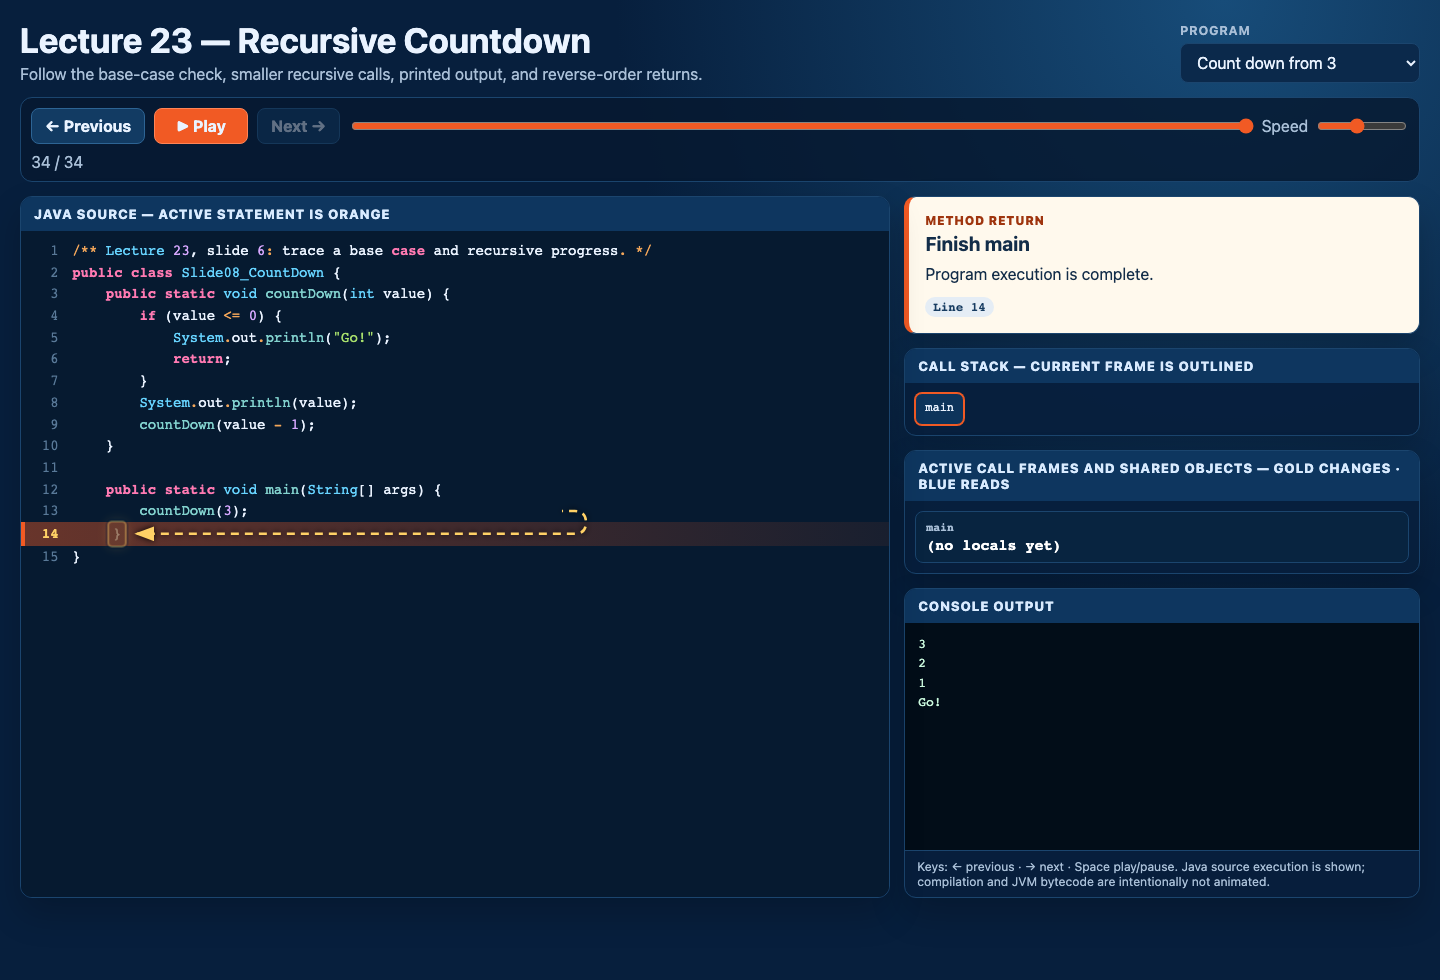
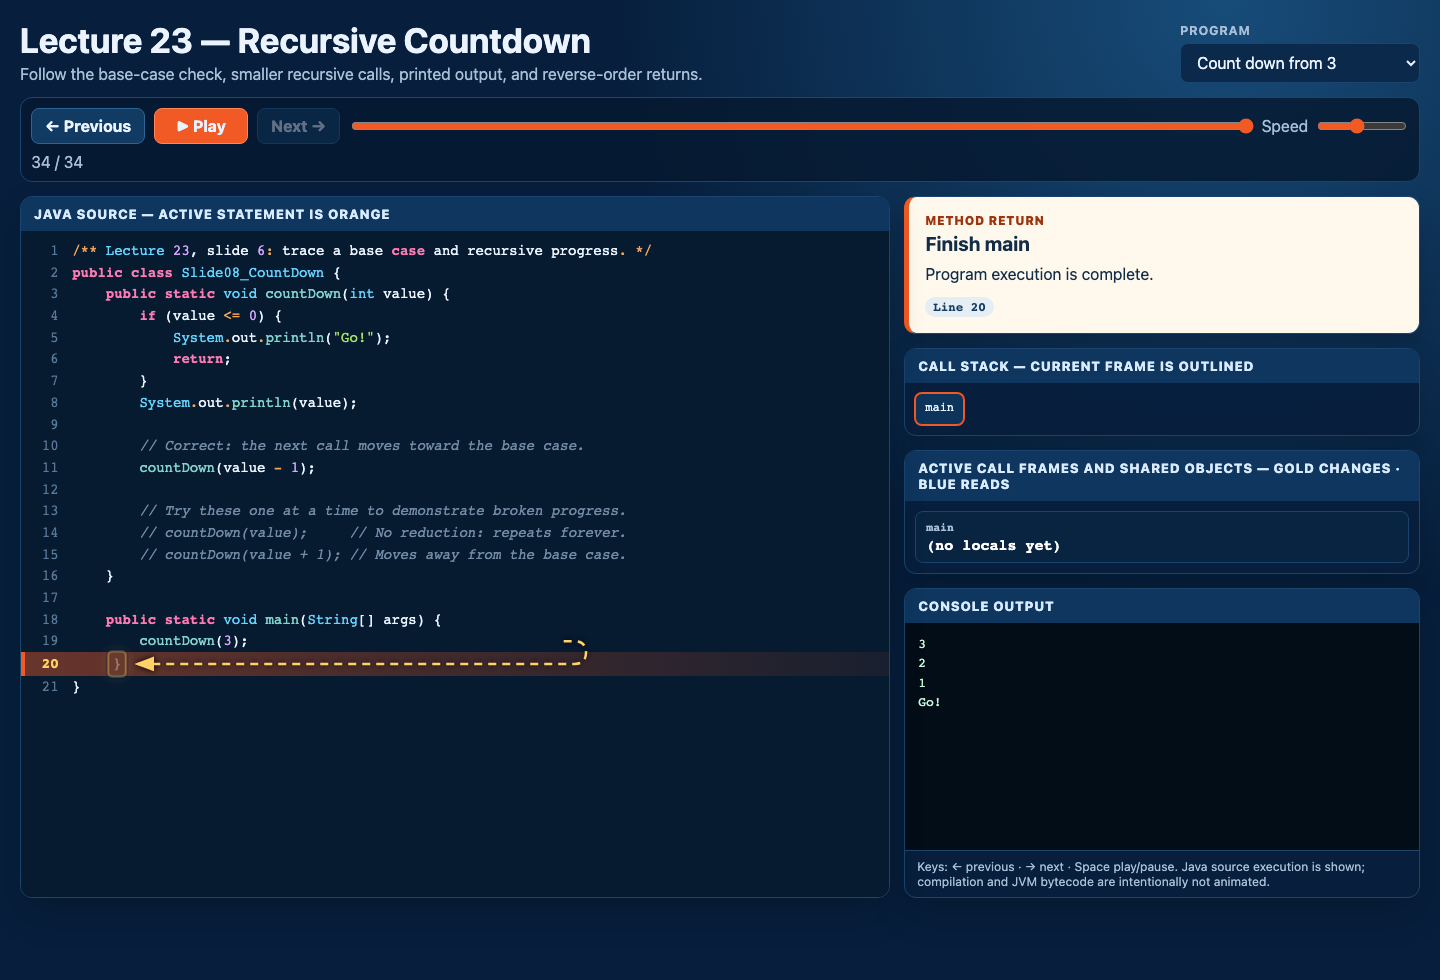
Expand countdown teaching variants and clean factorial trace text

Changed region(s): [[0.0, 0.4286, 0.5938, 0.5816], [0.0, 0.6122, 0.5938, 0.7041]]

diff --git a/lecture-23-countdown/trace-data.js b/lecture-23-countdown/trace-data.js
@@ -5,10 +5,10 @@ window.TRACE_SET = {
     {
       "id": "countdown",
       "title": "Count down from 3",
-      "source": "/** Lecture 23, slide 6: trace a base case and recursive progress. */\npublic class Slide08_CountDown {\n    public static void countDown(int value) {\n        if (value <= 0) {\n            System.out.println(\"Go!\");\n            return;\n        }\n        System.out.println(value);\n        countDown(value - 1);\n    }\n\n    public static void main(String[] args) {\n        countDown(3);\n    }\n}",
+      "source": "/** Lecture 23, slide 6: trace a base case and recursive progress. */\npublic class Slide08_CountDown {\n    public static void countDown(int value) {\n        if (value <= 0) {\n            System.out.println(\"Go!\");\n            return;\n        }\n        System.out.println(value);\n\n        // Correct: the next call moves toward the base case.\n        countDown(value - 1);\n\n        // Try these one at a time to demonstrate broken progress.\n        // countDown(value);     // No reduction: repeats forever.\n        // countDown(value + 1); // Moves away from the base case.\n    }\n\n    public static void main(String[] args) {\n        countDown(3);\n    }\n}",
       "steps": [
         {
-          "line": 12,
+          "line": 18,
           "title": "Enter main",
           "reason": "This is the main method.",
           "phase": "Method entry",
@@ -21,7 +21,7 @@ window.TRACE_SET = {
           "focus": "public static void main"
         },
         {
-          "line": 13,
+          "line": 19,
           "title": "Evaluate the initial argument",
           "reason": "The first call will receive the integer value 3.",
           "phase": "Argument evaluation",
@@ -34,7 +34,7 @@ window.TRACE_SET = {
           "focus": "3"
         },
         {
-          "line": 13,
+          "line": 19,
           "title": "Call countDown(3)",
           "reason": "Suspend main until the countdown finishes.",
           "phase": "Method call",
@@ -114,7 +114,7 @@ window.TRACE_SET = {
           "output": "3"
         },
         {
-          "line": 9,
+          "line": 11,
           "title": "Calculate the smaller argument",
           "reason": "value - 1 is 2. The current call keeps value = 3 while the child runs.",
           "phase": "Argument evaluation",
@@ -132,7 +132,7 @@ window.TRACE_SET = {
           }
         },
         {
-          "line": 9,
+          "line": 11,
           "title": "Call countDown(2)",
           "reason": "Suspend this call and enter the same method with the smaller value.",
           "phase": "Method call",
@@ -222,7 +222,7 @@ window.TRACE_SET = {
           "output": "2"
         },
         {
-          "line": 9,
+          "line": 11,
           "title": "Calculate the smaller argument",
           "reason": "value - 1 is 1. The current call keeps value = 2 while the child runs.",
           "phase": "Argument evaluation",
@@ -242,7 +242,7 @@ window.TRACE_SET = {
           }
         },
         {
-          "line": 9,
+          "line": 11,
           "title": "Call countDown(1)",
           "reason": "Suspend this call and enter the same method with the smaller value.",
           "phase": "Method call",
@@ -342,7 +342,7 @@ window.TRACE_SET = {
           "output": "1"
         },
         {
-          "line": 9,
+          "line": 11,
           "title": "Calculate the smaller argument",
           "reason": "value - 1 is 0. The current call keeps value = 1 while the child runs.",
           "phase": "Argument evaluation",
@@ -364,7 +364,7 @@ window.TRACE_SET = {
           }
         },
         {
-          "line": 9,
+          "line": 11,
           "title": "Call countDown(0)",
           "reason": "Suspend this call and enter the same method with the smaller value.",
           "phase": "Method call",
@@ -492,7 +492,7 @@ window.TRACE_SET = {
           "focus": "return"
         },
         {
-          "line": 9,
+          "line": 11,
           "title": "Resume countDown(1)",
           "reason": "countDown(0) has returned, so countDown(1) resumes after its recursive call.",
           "phase": "Return to caller",
@@ -511,7 +511,7 @@ window.TRACE_SET = {
           "focus": "countDown(value - 1)"
         },
         {
-          "line": 10,
+          "line": 16,
           "title": "Finish countDown(1)",
           "reason": "No statements remain in this void method, so the call returns to its caller.",
           "phase": "Method return",
@@ -530,7 +530,7 @@ window.TRACE_SET = {
           "focus": "}"
         },
         {
-          "line": 9,
+          "line": 11,
           "title": "Resume countDown(2)",
           "reason": "countDown(1) has returned, so countDown(2) resumes after its recursive call.",
           "phase": "Return to caller",
@@ -547,7 +547,7 @@ window.TRACE_SET = {
           "focus": "countDown(value - 1)"
         },
         {
-          "line": 10,
+          "line": 16,
           "title": "Finish countDown(2)",
           "reason": "No statements remain in this void method, so the call returns to its caller.",
           "phase": "Method return",
@@ -564,7 +564,7 @@ window.TRACE_SET = {
           "focus": "}"
         },
         {
-          "line": 9,
+          "line": 11,
           "title": "Resume countDown(3)",
           "reason": "countDown(2) has returned, so countDown(3) resumes after its recursive call.",
           "phase": "Return to caller",
@@ -579,7 +579,7 @@ window.TRACE_SET = {
           "focus": "countDown(value - 1)"
         },
         {
-          "line": 10,
+          "line": 16,
           "title": "Finish countDown(3)",
           "reason": "No statements remain in this void method, so the call returns to its caller.",
           "phase": "Method return",
@@ -594,7 +594,7 @@ window.TRACE_SET = {
           "focus": "}"
         },
         {
-          "line": 13,
+          "line": 19,
           "title": "Resume main",
           "reason": "countDown(3) has returned. Main has no remaining work.",
           "phase": "Return to caller",
@@ -607,7 +607,7 @@ window.TRACE_SET = {
           "focus": "countDown(3)"
         },
         {
-          "line": 14,
+          "line": 20,
           "title": "Finish main",
           "reason": "Program execution is complete.",
           "phase": "Method return",

diff --git a/exercise-05-recursion/trace-data.js b/exercise-05-recursion/trace-data.js
@@ -1196,7 +1196,7 @@ window.TRACE_SET = {
         {
           "line": 7,
           "title": "Return the base value",
-          "reason": "factorial(0) returns 1, matching Lecture 23. No child call is made.",
+          "reason": "factorial(0) returns 1. No child call is made.",
           "phase": "Return",
           "stack": [
             "main",

diff --git a/lecture-23-countdown/java/Slide08_CountDown.java b/lecture-23-countdown/java/Slide08_CountDown.java
@@ -6,7 +6,13 @@ public class Slide08_CountDown {
             return;
         }
         System.out.println(value);
+
+        // Correct: the next call moves toward the base case.
         countDown(value - 1);
+
+        // Try these one at a time to demonstrate broken progress.
+        // countDown(value);     // No reduction: repeats forever.
+        // countDown(value + 1); // Moves away from the base case.
     }
 
     public static void main(String[] args) {
